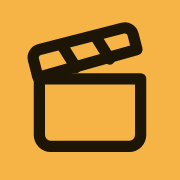
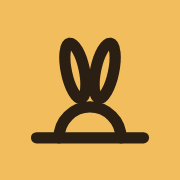
Give the UI a minimal rabbit burrow identity
New line mark of a rabbit peeking out of its burrow for logo, favicon
and touch icon, a warmer earth toned palette, ears peeking behind the
login card and burrow themed empty states.

Claude-Session: https://claude.ai/code/session_01LNbhqrFESjqW7bh7tvKqKS

Changed region(s): [[0.1389, 0.1111, 0.8333, 0.8611]]

diff --git a/src/pages/Login.tsx b/src/pages/Login.tsx
@@ -2,6 +2,7 @@ import { Loader2 } from 'lucide-react'
 import { useState } from 'react'
 import { Navigate } from 'react-router'
 import { Logo } from '@/components/AppShell'
+import { PeekingEars } from '@/components/BurrowMark'
 import { Button } from '@/components/ui/button'
 import { Card, CardContent, CardDescription, CardHeader, CardTitle } from '@/components/ui/card'
 import { Input } from '@/components/ui/input'
@@ -52,60 +53,63 @@ export default function Login() {
             'radial-gradient(140% 60% at 50% 0%, color-mix(in oklch, var(--primary) 18%, transparent) 0%, color-mix(in oklch, var(--primary) 6%, transparent) 45%, transparent 75%)',
         }}
       />
-      <div className="relative w-full max-w-sm space-y-6">
+      <div className="relative w-full max-w-sm space-y-14">
         <Logo className="justify-center text-xl" />
-        <Card>
-          <CardHeader>
-            <CardTitle>Anmelden</CardTitle>
-            <CardDescription>Mit deinem Jellyfin Account</CardDescription>
-          </CardHeader>
-          <CardContent>
-            <form onSubmit={submit} className="space-y-4">
-              <div className="space-y-2">
-                <Label htmlFor="server">Server</Label>
-                <Input
-                  id="server"
-                  inputMode="url"
-                  autoCapitalize="none"
-                  autoCorrect="off"
-                  placeholder="jellyfin.example.com"
-                  value={server}
-                  onChange={(e) => setServer(e.target.value)}
-                  required
-                  className="h-10"
-                />
-              </div>
-              <div className="space-y-2">
-                <Label htmlFor="username">Benutzername</Label>
-                <Input
-                  id="username"
-                  autoCapitalize="none"
-                  autoComplete="username"
-                  value={username}
-                  onChange={(e) => setUsername(e.target.value)}
-                  required
-                  className="h-10"
-                />
-              </div>
-              <div className="space-y-2">
-                <Label htmlFor="password">Passwort</Label>
-                <Input
-                  id="password"
-                  type="password"
-                  autoComplete="current-password"
-                  value={password}
-                  onChange={(e) => setPassword(e.target.value)}
-                  className="h-10"
-                />
-              </div>
-              {error && <p className="text-sm text-destructive">{error}</p>}
-              <Button type="submit" size="lg" className="w-full" disabled={loading}>
-                {loading && <Loader2 className="animate-spin" />}
-                Anmelden
-              </Button>
-            </form>
-          </CardContent>
-        </Card>
+        <div className="relative">
+          <PeekingEars className="absolute -top-12 right-10 h-16 w-12" />
+          <Card className="relative">
+            <CardHeader>
+              <CardTitle>Anmelden</CardTitle>
+              <CardDescription>Mit deinem Jellyfin Account</CardDescription>
+            </CardHeader>
+            <CardContent>
+              <form onSubmit={submit} className="space-y-4">
+                <div className="space-y-2">
+                  <Label htmlFor="server">Server</Label>
+                  <Input
+                    id="server"
+                    inputMode="url"
+                    autoCapitalize="none"
+                    autoCorrect="off"
+                    placeholder="jellyfin.example.com"
+                    value={server}
+                    onChange={(e) => setServer(e.target.value)}
+                    required
+                    className="h-10"
+                  />
+                </div>
+                <div className="space-y-2">
+                  <Label htmlFor="username">Benutzername</Label>
+                  <Input
+                    id="username"
+                    autoCapitalize="none"
+                    autoComplete="username"
+                    value={username}
+                    onChange={(e) => setUsername(e.target.value)}
+                    required
+                    className="h-10"
+                  />
+                </div>
+                <div className="space-y-2">
+                  <Label htmlFor="password">Passwort</Label>
+                  <Input
+                    id="password"
+                    type="password"
+                    autoComplete="current-password"
+                    value={password}
+                    onChange={(e) => setPassword(e.target.value)}
+                    className="h-10"
+                  />
+                </div>
+                {error && <p className="text-sm text-destructive">{error}</p>}
+                <Button type="submit" size="lg" className="w-full" disabled={loading}>
+                  {loading && <Loader2 className="animate-spin" />}
+                  Anmelden
+                </Button>
+              </form>
+              </CardContent>
+          </Card>
+        </div>
       </div>
     </div>
   )

diff --git a/src/index.css b/src/index.css
@@ -84,24 +84,24 @@
 }
 
 .dark {
-    --background: oklch(0.155 0.012 275);
-    --foreground: oklch(0.97 0.005 275);
-    --card: oklch(0.2 0.014 275);
-    --card-foreground: oklch(0.97 0.005 275);
-    --popover: oklch(0.205 0.014 275);
-    --popover-foreground: oklch(0.97 0.005 275);
-    --primary: oklch(0.82 0.15 75);
-    --primary-foreground: oklch(0.22 0.04 70);
-    --secondary: oklch(0.26 0.014 275);
-    --secondary-foreground: oklch(0.97 0.005 275);
-    --muted: oklch(0.25 0.014 275);
-    --muted-foreground: oklch(0.7 0.015 275);
-    --accent: oklch(0.27 0.016 275);
-    --accent-foreground: oklch(0.97 0.005 275);
-    --destructive: oklch(0.7 0.19 22);
-    --border: oklch(1 0 0 / 9%);
-    --input: oklch(1 0 0 / 14%);
-    --ring: oklch(0.82 0.15 75 / 60%);
+    --background: oklch(0.165 0.009 60);
+    --foreground: oklch(0.96 0.012 80);
+    --card: oklch(0.205 0.011 60);
+    --card-foreground: oklch(0.96 0.012 80);
+    --popover: oklch(0.215 0.012 60);
+    --popover-foreground: oklch(0.96 0.012 80);
+    --primary: oklch(0.83 0.13 80);
+    --primary-foreground: oklch(0.23 0.035 70);
+    --secondary: oklch(0.265 0.013 60);
+    --secondary-foreground: oklch(0.96 0.012 80);
+    --muted: oklch(0.255 0.013 60);
+    --muted-foreground: oklch(0.71 0.02 75);
+    --accent: oklch(0.275 0.015 60);
+    --accent-foreground: oklch(0.96 0.012 80);
+    --destructive: oklch(0.68 0.17 30);
+    --border: oklch(0.95 0.02 80 / 9%);
+    --input: oklch(0.95 0.02 80 / 14%);
+    --ring: oklch(0.83 0.13 80 / 60%);
     --radius: 0.75rem;
 }
 

diff --git a/src/components/BurrowMark.tsx b/src/components/BurrowMark.tsx
@@ -1,0 +1,36 @@
+/** Brand mark: a rabbit peeking out of its burrow, drawn in the same line style as the lucide icons. */
+export function BurrowMark({ className }: { className?: string }) {
+  return (
+    <svg
+      viewBox="0 0 24 24"
+      fill="none"
+      stroke="currentColor"
+      strokeWidth={2}
+      strokeLinecap="round"
+      strokeLinejoin="round"
+      className={className}
+      aria-hidden
+    >
+      <path d="M2.5 20.5h19" />
+      <path d="M6.5 20.5a5.5 5.5 0 0 1 11 0" />
+      <ellipse cx="9.4" cy="8.6" rx="1.6" ry="5" transform="rotate(-12 9.4 8.6)" />
+      <ellipse cx="14.6" cy="8.6" rx="1.6" ry="5" transform="rotate(12 14.6 8.6)" />
+    </svg>
+  )
+}
+
+/** Two ears that peek out from behind an element; place inside a relative parent, behind the content. */
+export function PeekingEars({ className }: { className?: string }) {
+  return (
+    <svg viewBox="0 0 40 52" className={className} aria-hidden>
+      <g fill="var(--card)" stroke="color-mix(in oklch, var(--foreground) 10%, transparent)" strokeWidth={1}>
+        <ellipse cx="13" cy="28" rx="5.5" ry="22" transform="rotate(-9 13 28)" />
+        <ellipse cx="27" cy="28" rx="5.5" ry="22" transform="rotate(9 27 28)" />
+      </g>
+      <g fill="color-mix(in oklch, var(--primary) 14%, transparent)">
+        <ellipse cx="13" cy="26" rx="2.2" ry="15" transform="rotate(-9 13 26)" />
+        <ellipse cx="27" cy="26" rx="2.2" ry="15" transform="rotate(9 27 26)" />
+      </g>
+    </svg>
+  )
+}

diff --git a/src/pages/Library.tsx b/src/pages/Library.tsx
@@ -1,7 +1,7 @@
 import { useInfiniteQuery } from '@tanstack/react-query'
-import { Film } from 'lucide-react'
 import { useSearchParams } from 'react-router'
 import { Page, PageHeader } from '@/components/AppShell'
+import { BurrowMark } from '@/components/BurrowMark'
 import { EmptyState } from '@/components/EmptyState'
 import { LoadMore, PosterCard, PosterGrid, PosterGridSkeleton } from '@/components/PosterCard'
 import { Select, SelectContent, SelectItem, SelectTrigger, SelectValue } from '@/components/ui/select'
@@ -68,8 +68,8 @@ export default function Library() {
       </PageHeader>
 
       {query.isLoading && <PosterGridSkeleton />}
-      {query.isError && <EmptyState icon={Film} title="Bibliothek konnte nicht geladen werden" text={query.error.message} />}
-      {query.isSuccess && items.length === 0 && <EmptyState icon={Film} title="Hier ist noch nichts" />}
+      {query.isError && <EmptyState icon={BurrowMark} title="Bibliothek konnte nicht geladen werden" text={query.error.message} />}
+      {query.isSuccess && items.length === 0 && <EmptyState icon={BurrowMark} title="Der Bau ist noch leer" />}
 
       <PosterGrid>
         {items.map((item) => (

diff --git a/src/pages/ItemDetail.tsx b/src/pages/ItemDetail.tsx
@@ -1,7 +1,8 @@
 import { useQuery } from '@tanstack/react-query'
-import { ExternalLink, Film } from 'lucide-react'
+import { ExternalLink } from 'lucide-react'
 import { useParams } from 'react-router'
 import { AddToFolder } from '@/components/AddToFolder'
+import { BurrowMark } from '@/components/BurrowMark'
 import { DetailLayout, DetailSkeleton, Row } from '@/components/DetailLayout'
 import { EmptyState } from '@/components/EmptyState'
 import { Poster } from '@/components/PosterCard'
@@ -62,7 +63,7 @@ export default function ItemDetail() {
   const { data: item, isLoading, error } = useQuery({ queryKey: ['item', id], queryFn: () => getItem(session, id) })
 
   if (isLoading) return <DetailSkeleton />
-  if (!item) return <div className="p-4"><EmptyState icon={Film} title="Titel nicht gefunden" text={error?.message} /></div>
+  if (!item) return <div className="p-4"><EmptyState icon={BurrowMark} title="Dieser Gang führt nirgendwohin" text={error?.message ?? "Titel nicht gefunden"} /></div>
 
   const folderItem = fromJellyfin(session, item)
   const inFolders = folders.filter((f) => f.items.some((i) => i.key === folderItem.key))

diff --git a/src/pages/FolderDetail.tsx b/src/pages/FolderDetail.tsx
@@ -3,6 +3,7 @@ import { useState } from 'react'
 import { Link, useNavigate, useParams } from 'react-router'
 import { toast } from 'sonner'
 import { Page, PageHeader } from '@/components/AppShell'
+import { BurrowMark } from '@/components/BurrowMark'
 import { EmptyState } from '@/components/EmptyState'
 import { NameDialog } from '@/components/NameDialog'
 import { PosterCard, PosterGrid, PosterGridSkeleton } from '@/components/PosterCard'
@@ -38,7 +39,7 @@ export default function FolderDetail() {
   if (!folder) {
     return (
       <Page>
-        <EmptyState icon={FolderOpen} title="Ordner nicht gefunden">
+        <EmptyState icon={BurrowMark} title="Dieser Gang führt nirgendwohin" text="Den Ordner gibt es nicht mehr.">
           <Button asChild variant="secondary"><Link to="/folders">Zu den Ordnern</Link></Button>
         </EmptyState>
       </Page>

diff --git a/src/components/AppShell.tsx b/src/components/AppShell.tsx
@@ -1,6 +1,7 @@
-import { Clapperboard, Film, FolderHeart, Search, Settings } from 'lucide-react'
+import { Film, FolderHeart, Search, Settings } from 'lucide-react'
 import { NavLink, Outlet, ScrollRestoration } from 'react-router'
 import { cn } from '@/lib/utils'
+import { BurrowMark } from './BurrowMark'
 
 const NAV = [
   { to: '/', label: 'Bibliothek', icon: Film },
@@ -13,7 +14,7 @@ export function Logo({ className }: { className?: string }) {
   return (
     <span className={cn('flex items-center gap-2 font-semibold tracking-tight', className)}>
       <span className="grid size-8 place-items-center rounded-lg bg-primary text-primary-foreground">
-        <Clapperboard className="size-4.5" />
+        <BurrowMark className="size-5" />
       </span>
       BurrowCinema
     </span>

diff --git a/src/pages/Search.tsx b/src/pages/Search.tsx
@@ -4,6 +4,7 @@ import { useEffect, useState } from 'react'
 import { useSearchParams } from 'react-router'
 import { Page } from '@/components/AppShell'
 import { ArrDialog, ConnectedIcon } from '@/components/ArrConnect'
+import { BurrowMark } from '@/components/BurrowMark'
 import { EmptyState } from '@/components/EmptyState'
 import { PosterCard, PosterGrid, PosterGridSkeleton } from '@/components/PosterCard'
 import { Badge } from '@/components/ui/badge'
@@ -102,7 +103,7 @@ export default function Search() {
       {!searching && (
         <div className="mt-8">
           <EmptyState
-            icon={SearchIcon}
+            icon={BurrowMark}
             title="Was möchtest du finden?"
             text={
               <>

diff --git a/index.html b/index.html
@@ -3,7 +3,7 @@
   <head>
     <meta charset="UTF-8" />
     <meta name="viewport" content="width=device-width, initial-scale=1.0, viewport-fit=cover" />
-    <meta name="theme-color" content="#0d0e14" />
+    <meta name="theme-color" content="#16120e" />
     <meta name="apple-mobile-web-app-capable" content="yes" />
     <meta name="mobile-web-app-capable" content="yes" />
     <meta name="apple-mobile-web-app-status-bar-style" content="black-translucent" />

diff --git a/src/components/EmptyState.tsx b/src/components/EmptyState.tsx
@@ -1,7 +1,6 @@
-import type { LucideIcon } from 'lucide-react'
-import type { ReactNode } from 'react'
+import type { ComponentType, ReactNode } from 'react'
 
-type Props = { icon: LucideIcon; title: string; text?: ReactNode; children?: ReactNode }
+type Props = { icon: ComponentType<{ className?: string }>; title: string; text?: ReactNode; children?: ReactNode }
 
 export function EmptyState({ icon: Icon, title, text, children }: Props) {
   return (
